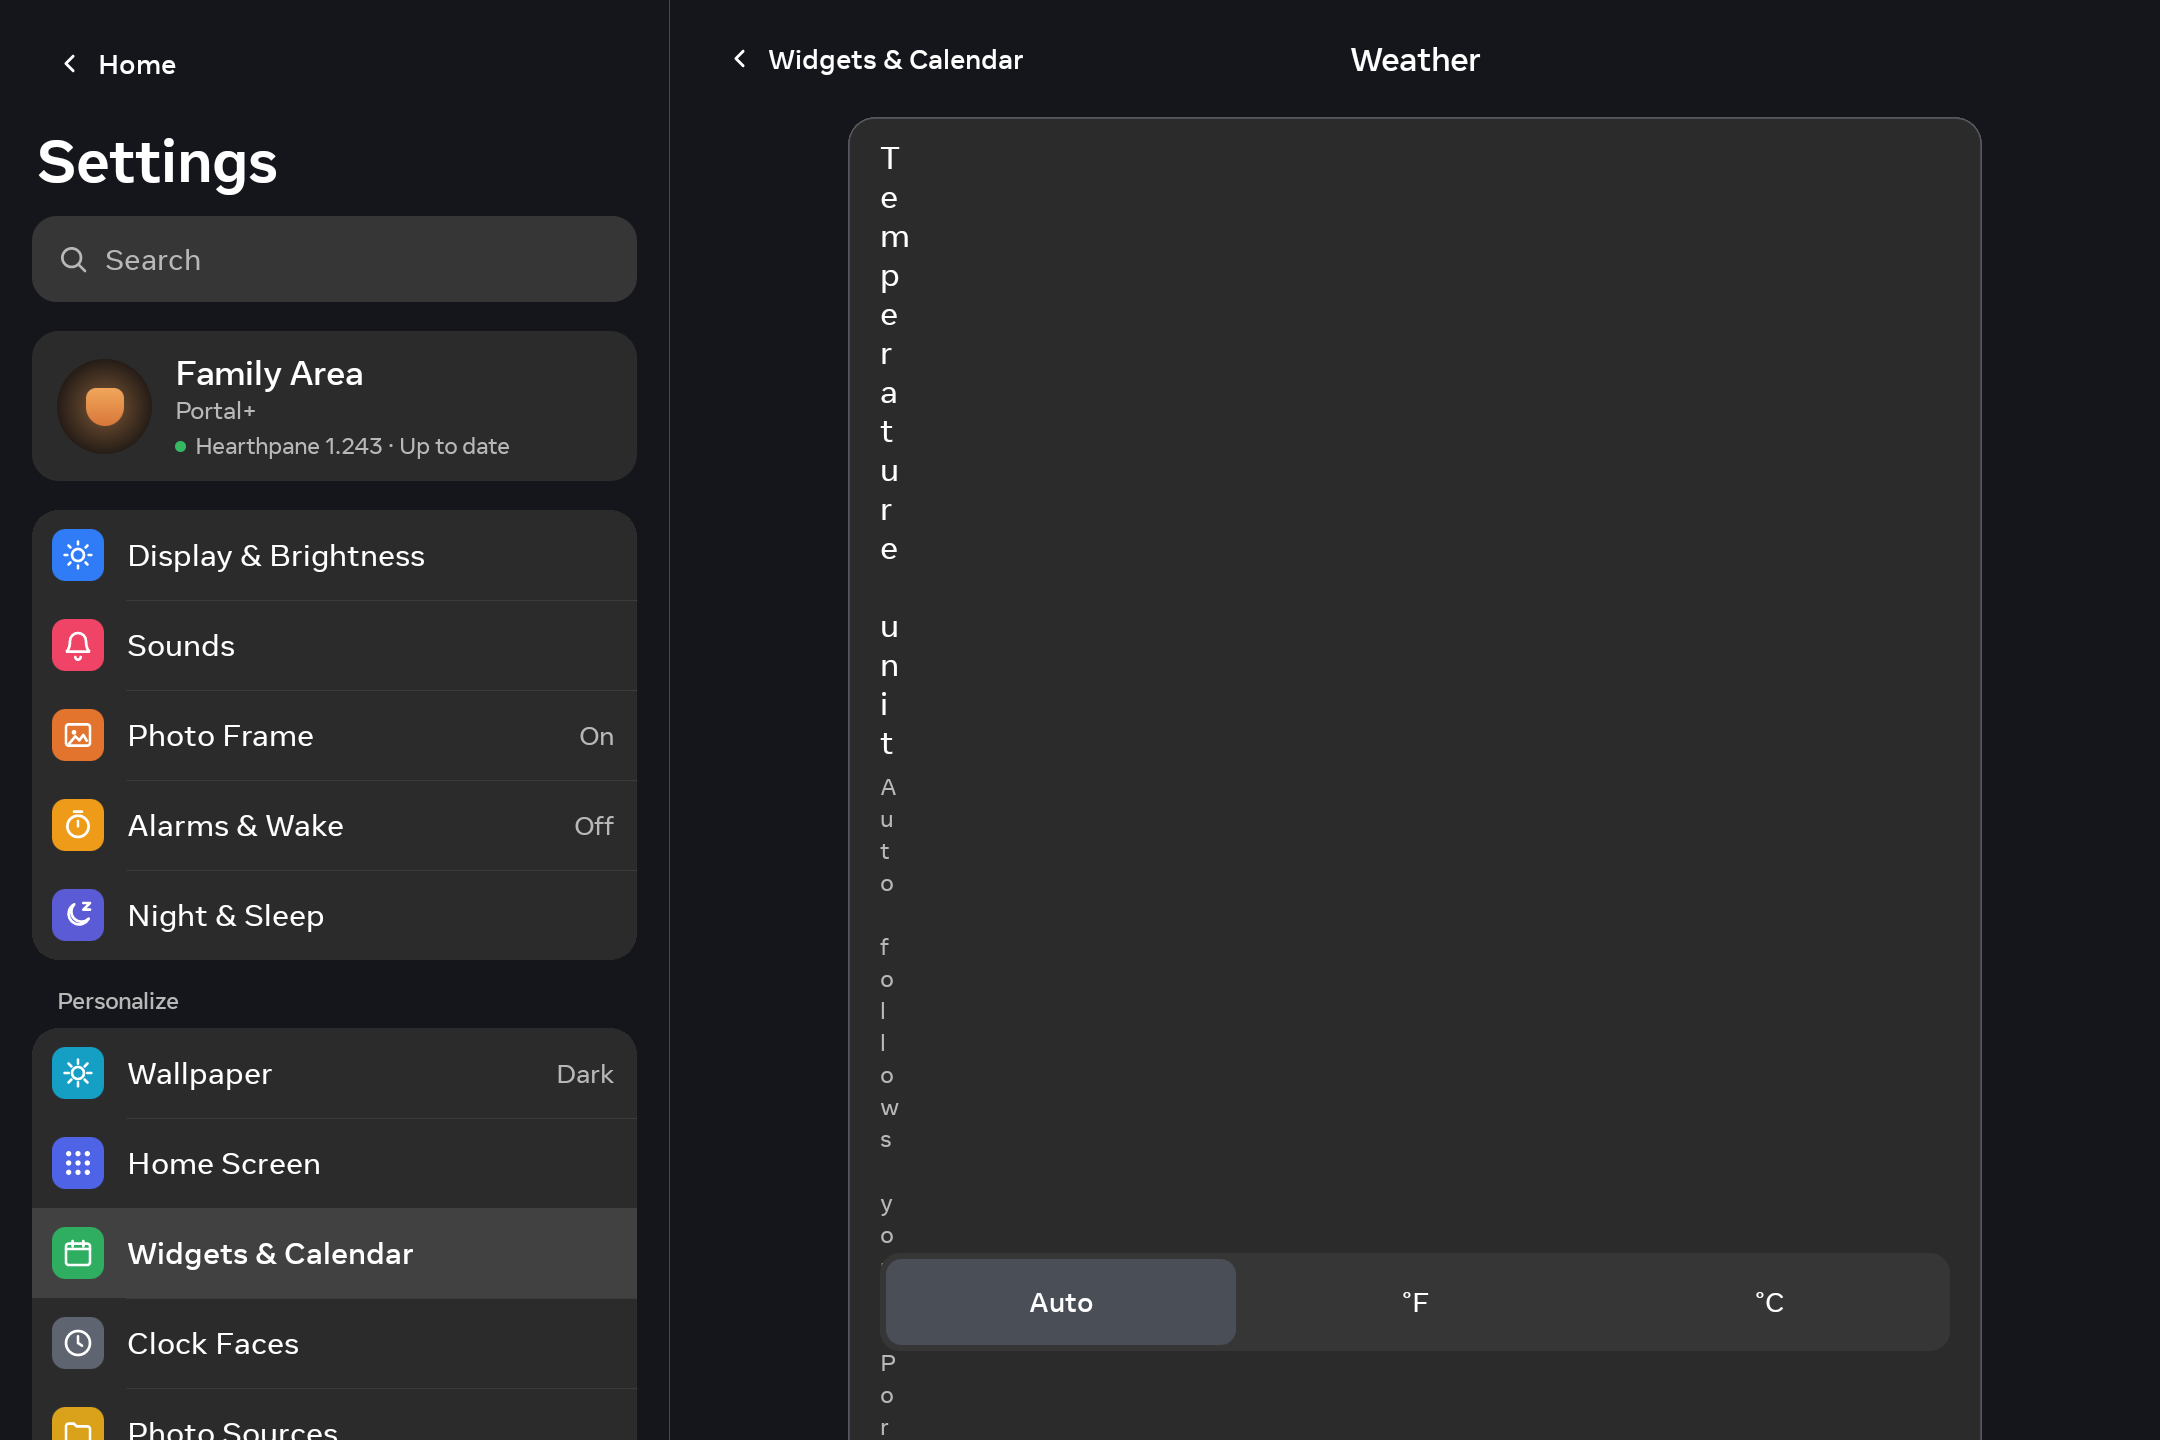
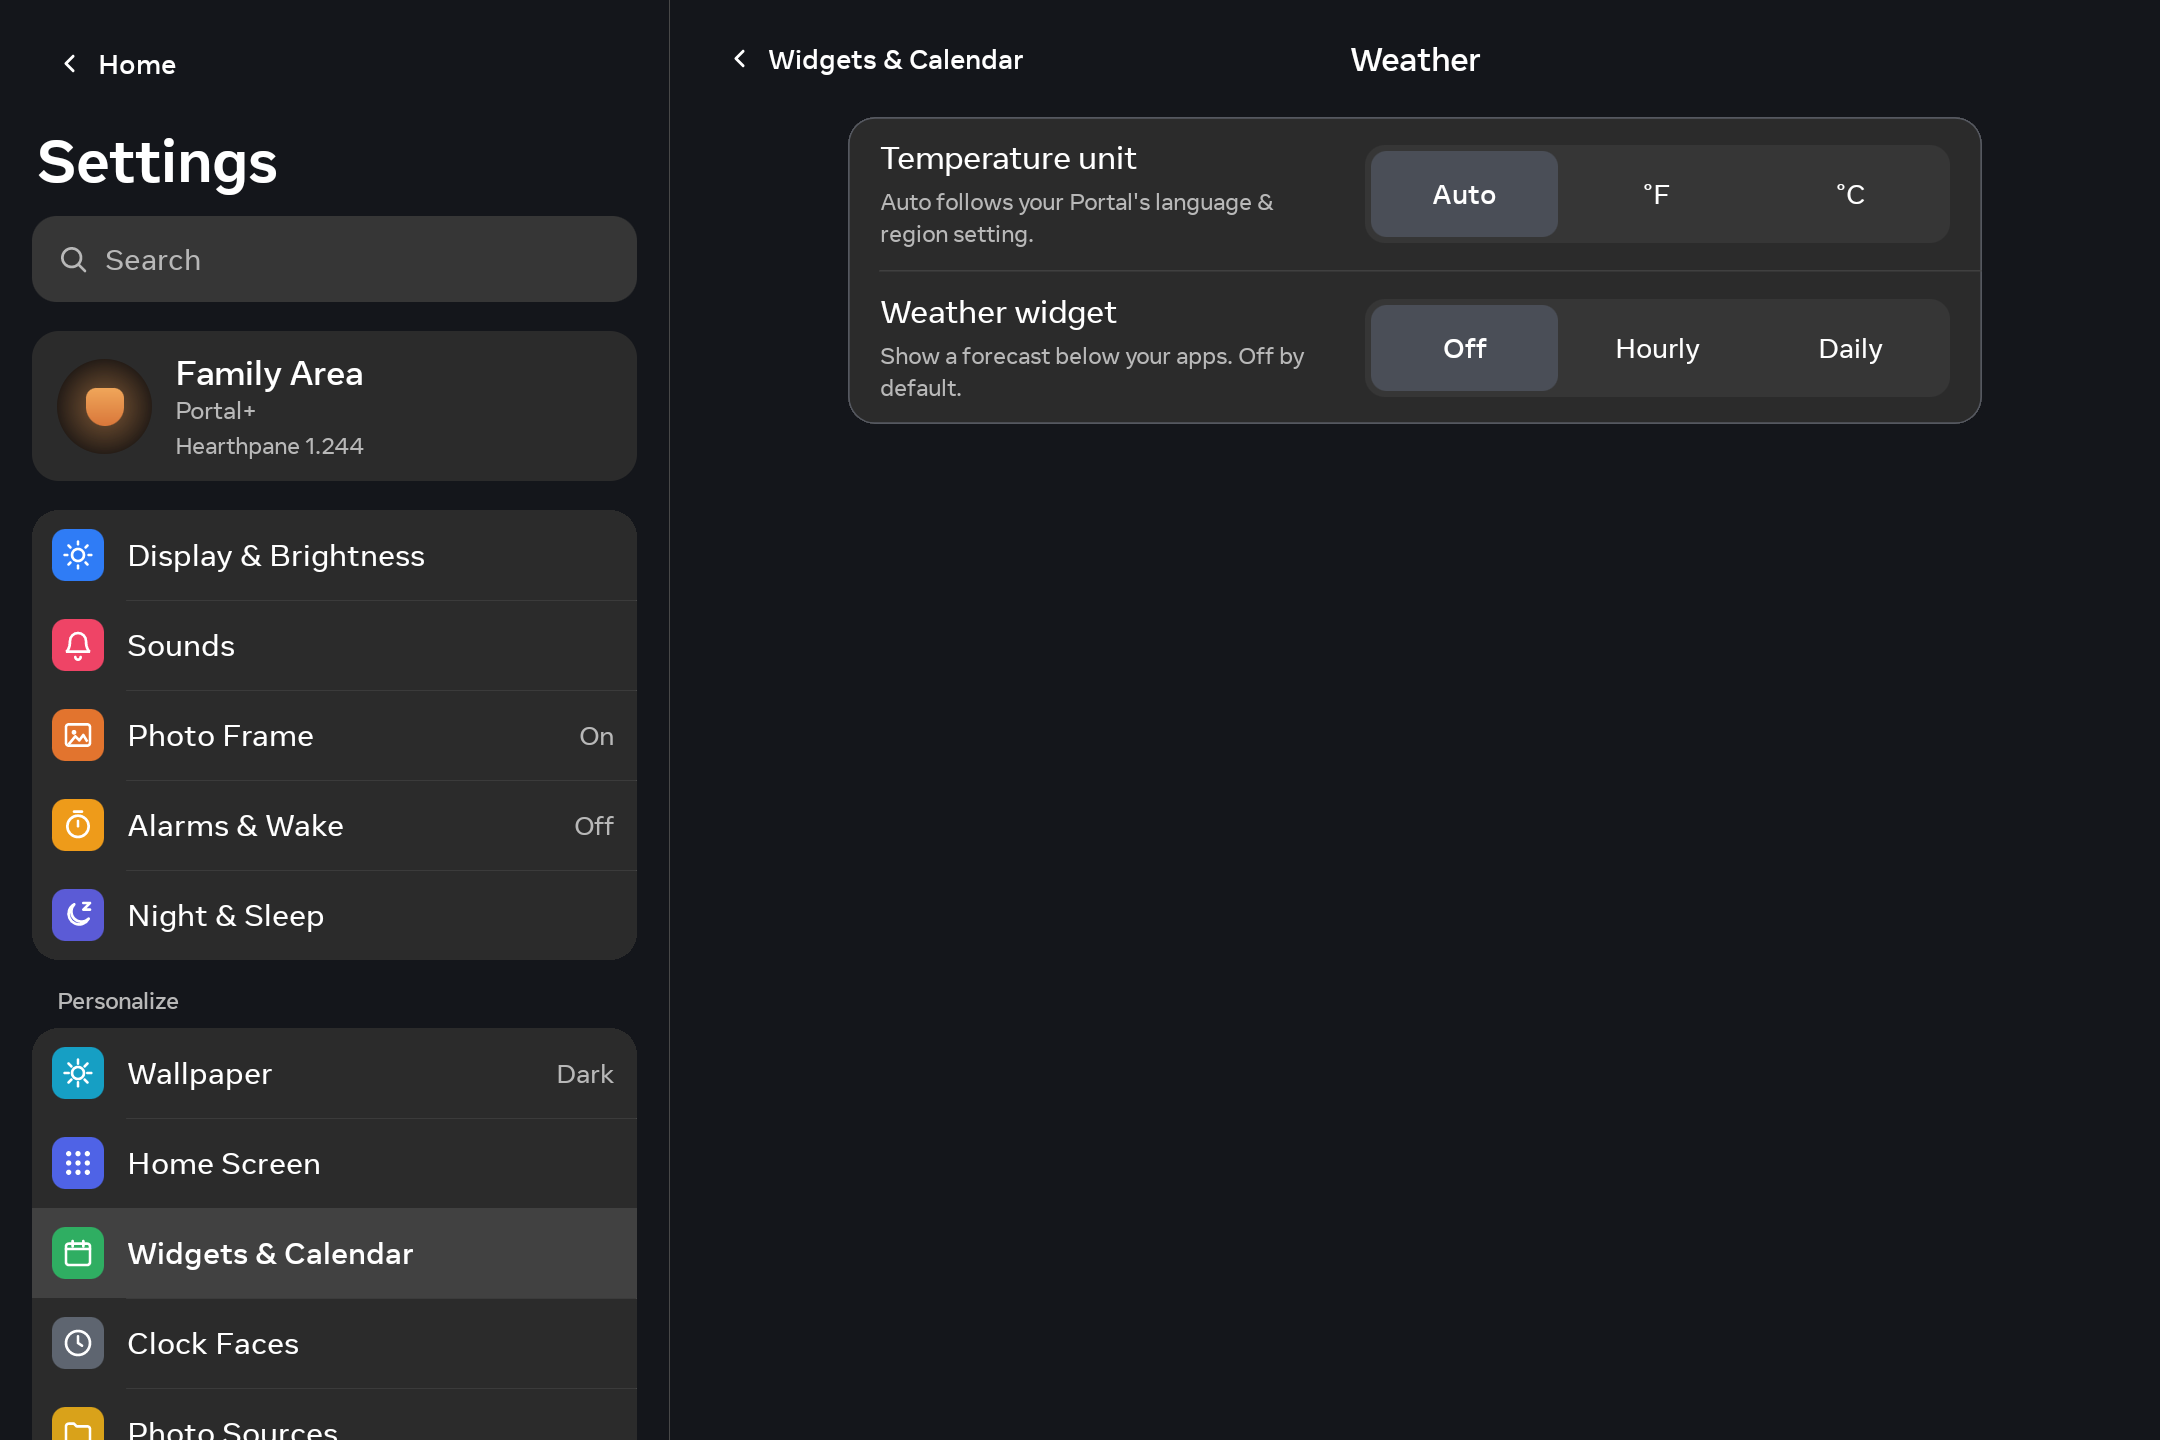
fix: keep titles readable beside inline Settings choice tiles; 1.245
The inline tile track had no maximum width, so it took the whole row and
squeezed the title into a one-letter column (e.g. Weather › Temperature
unit). Cap it at 520 dp.

diff --git a/app/src/main/java/com/immortal/launcher/SettingsChoiceTiles.kt b/app/src/main/java/com/immortal/launcher/SettingsChoiceTiles.kt
@@ -40,6 +40,8 @@ private val TileRadius = 14.dp
 private val TileMinHeight = 76.dp
 private val TileMinWidth = 96.dp
 private val InlineTrackMinWidth = 420.dp
+/** Inline tracks stop here so the title beside them keeps its width (tiles share it evenly). */
+private val InlineTrackMaxWidth = 520.dp
 private val TileLabelSize = 24.sp
 private val RowPaddingH = 28.dp
 private val RowPaddingV = 18.dp
@@ -74,7 +76,7 @@ internal fun SettingsChoiceTilesRow(
     } else {
         Row(padding, verticalAlignment = Alignment.CenterVertically) {
             ApprovedSettingsLabel(title, help, Modifier.weight(1f).padding(end = 24.dp))
-            SettingsTileTrack(tiles, enabled, Modifier.widthIn(min = InlineTrackMinWidth), onSelect)
+            SettingsTileTrack(tiles, enabled, Modifier.widthIn(min = InlineTrackMinWidth, max = InlineTrackMaxWidth), onSelect)
         }
     }
 }
